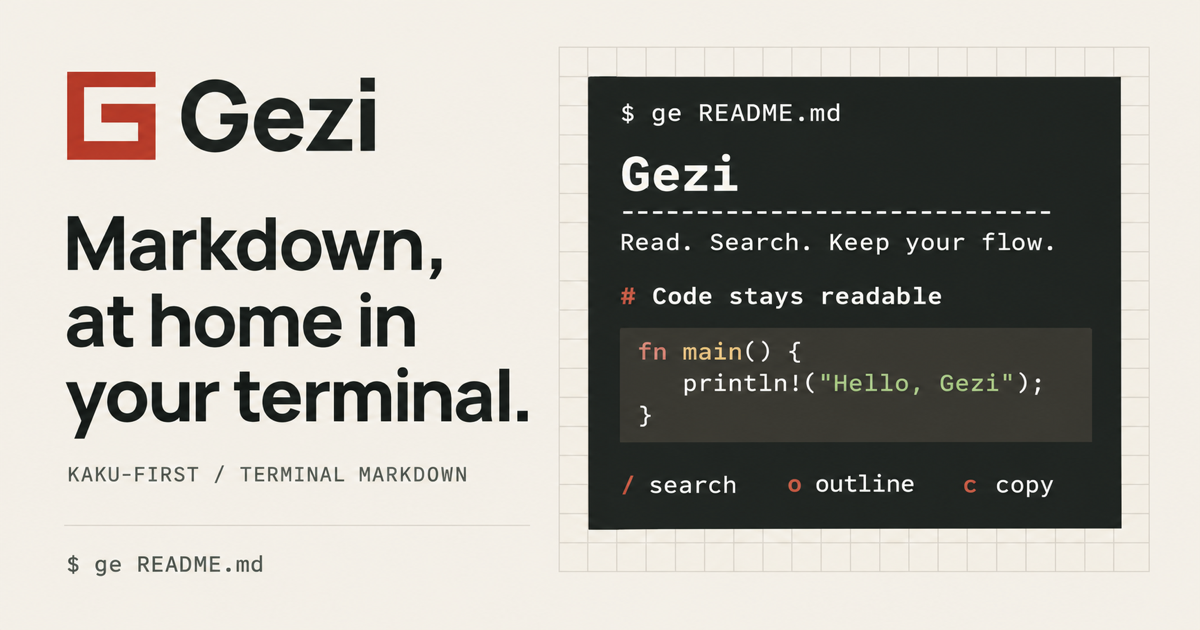
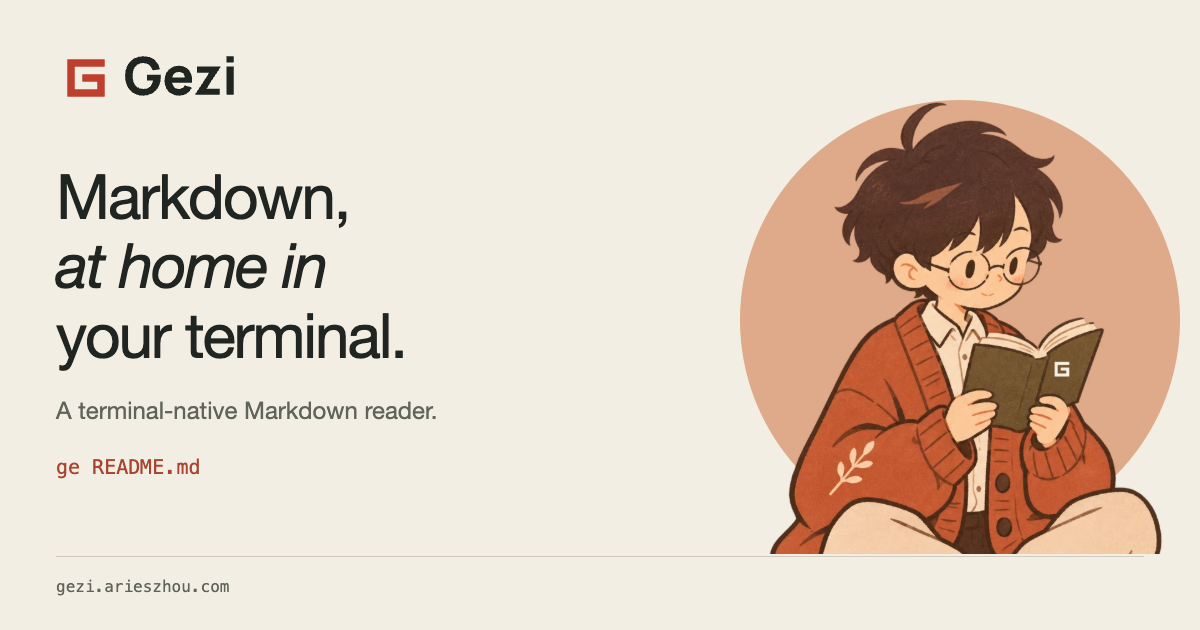
feat: bring reading character to website and brand artwork (#41)

diff --git a/site/index.html b/site/index.html
@@ -1,4 +1,4 @@
-<!doctype html><html lang="en" data-type="software"><head><meta charset="utf-8"><meta name="viewport" content="width=device-width,initial-scale=1"><meta name="page-type" content="software"><meta name="site-kind" content="software"><meta name="theme-color" content="#f5f1e8"><meta name="description" content="Gezi is a terminal-native Markdown reader for macOS Apple Silicon. Read files, search text, navigate headings and read Markdown streams."><title>Gezi — Markdown, at home in your terminal.</title><link rel="icon" href="/assets/favicon.svg"><link rel="stylesheet" href="/styles.css"><link rel="stylesheet" href="/reference.css"><script src="/page.js" defer></script><link rel="canonical" href="https://gezi.arieszhou.com/"><meta property="og:type" content="website"><meta property="og:site_name" content="Gezi"><meta property="og:title" content="Gezi — Markdown, at home in your terminal."><meta property="og:description" content="A terminal-native Markdown reader for macOS Apple Silicon. Open files, search text, navigate headings and read from a pipe."><meta property="og:url" content="https://gezi.arieszhou.com/"><meta property="og:image" content="https://gezi.arieszhou.com/og-image.png"><meta property="og:image:width" content="1200"><meta property="og:image:height" content="630"><meta property="og:image:alt" content="Gezi logo, brand slogan and an illustrative terminal reading scene."><meta name="twitter:card" content="summary_large_image"><meta name="twitter:title" content="Gezi — Markdown, at home in your terminal."><meta name="twitter:description" content="A terminal-native Markdown reader for macOS Apple Silicon."><meta name="twitter:image" content="https://gezi.arieszhou.com/og-image.png"></head><body class="design-a"><div class="page"><a class="skip" href="#main">Skip to content</a><header class="site-header"><a class="logo" href="#top" aria-label="Gezi home"><img src="/assets/logo.svg" width="152" height="48" alt="Gezi"></a><span class="header-note">A reading instrument / 格子</span><nav aria-label="Primary"><a href="https://github.com/HiAriesZhou/Gezi">GitHub <span aria-hidden="true">↗</span></a></nav></header><main id="main" tabindex="-1"><div id="top"></div><section class="hero" aria-labelledby="hero-title"><aside class="marginalia"><span class="folio">No. 01</span><p>A little room<br>to read.</p><span class="margin-bottom">Fig. 01</span></aside><div class="hero-main"><div class="a-heading"><p class="eyebrow">A Markdown reader for your terminal</p><h1 id="hero-title">Markdown,<br><em>at home in</em><br>your terminal.</h1><div class="a-intro"><p>Read files, search text, navigate headings, and follow Markdown streams without leaving your terminal.</p><div class="a-actions"><a class="button" href="#install">Install Gezi <span aria-hidden="true">↓</span></a><span>macOS · Apple Silicon</span></div></div></div><div class="reading-surface"><div class="terminal-frame"><div class="terminal-top"><span>ge reading.md</span><a href="/reading.md">Markdown source <span aria-hidden="true">↗</span></a></div><div class="terminal-output" tabindex="0" role="region" aria-label="Actual Gezi rendered Markdown, scroll to read"><pre class="wide"><span style=""></span><span style="font-weight:700;color:var(--ansi-13)">Reading with Gezi</span><span style="">
+<!doctype html><html lang="en" data-type="software"><head><meta charset="utf-8"><meta name="viewport" content="width=device-width,initial-scale=1"><meta name="page-type" content="software"><meta name="site-kind" content="software"><meta name="theme-color" content="#f3eee4"><meta name="description" content="Gezi is a terminal-native Markdown reader for macOS Apple Silicon. Read files, search text, navigate headings and read Markdown streams."><title>Gezi — Markdown, at home in your terminal.</title><link rel="icon" href="/assets/favicon.svg"><link rel="stylesheet" href="/styles.css"><link rel="stylesheet" href="/reference.css"><script src="/page.js" defer></script><link rel="canonical" href="https://gezi.arieszhou.com/"><meta property="og:type" content="website"><meta property="og:site_name" content="Gezi"><meta property="og:title" content="Gezi — Markdown, at home in your terminal."><meta property="og:description" content="A terminal-native Markdown reader for macOS Apple Silicon. Open files, search text, navigate headings and read from a pipe."><meta property="og:url" content="https://gezi.arieszhou.com/"><meta property="og:image" content="https://gezi.arieszhou.com/og-image.png"><meta property="og:image:width" content="1200"><meta property="og:image:height" content="630"><meta property="og:image:alt" content="Gezi logo and a reader holding a book. Markdown, at home in your terminal."><meta name="twitter:card" content="summary_large_image"><meta name="twitter:title" content="Gezi — Markdown, at home in your terminal."><meta name="twitter:description" content="A terminal-native Markdown reader for macOS Apple Silicon."><meta name="twitter:image" content="https://gezi.arieszhou.com/og-image.png"></head><body class="design-a"><div class="page"><a class="skip" href="#main">Skip to content</a><header class="site-header"><a class="logo" href="#top" aria-label="Gezi home"><img src="/assets/logo.svg" width="152" height="48" alt="Gezi"></a><span class="header-note">A reading instrument / 格子</span><nav aria-label="Primary"><a href="https://github.com/HiAriesZhou/Gezi">GitHub <span aria-hidden="true">↗</span></a></nav></header><main id="main" tabindex="-1"><div id="top"></div><section class="hero" aria-labelledby="hero-title"><aside class="marginalia"><span class="folio">No. 01</span><p>A little room<br>to read.</p><span class="margin-bottom">Fig. 01</span></aside><div class="hero-main"><div class="a-heading"><div class="reader-art" aria-hidden="true"><img src="/assets/reader.webp" alt="" width="756" height="1003" fetchpriority="high" decoding="async"></div><p class="eyebrow">A Markdown reader for your terminal</p><h1 id="hero-title">Markdown,<br><em>at home in</em><br>your terminal.</h1><div class="a-intro"><p>Read files, search text, navigate headings, and follow Markdown streams without leaving your terminal.</p><div class="a-actions"><a class="button" href="#install">Install Gezi <span aria-hidden="true">↓</span></a><span>macOS · Apple Silicon</span></div></div></div><div class="reading-surface"><div class="terminal-frame"><div class="terminal-top"><span>ge reading.md</span><a href="/reading.md">Markdown source <span aria-hidden="true">↗</span></a></div><div class="terminal-output" tabindex="0" role="region" aria-label="Actual Gezi rendered Markdown, scroll to read"><pre class="wide"><span style=""></span><span style="font-weight:700;color:var(--ansi-13)">Reading with Gezi</span><span style="">
 </span><span style="font-weight:700;color:var(--ansi-13)"><span class="terminal-rule">━━━━━━━━━━━━━━━━━━━━━━━━━━━━━━━━━━━━━━━━━━━━━━━━━━━━━━━━━━━━━━━━</span></span><span style="">
 
 在终端里，读得自在。

diff --git a/site/reference.css b/site/reference.css
@@ -11,7 +11,11 @@ body.design-a {
 .design-a .marginalia { border: 0; padding: 10px 0 0; }
 .design-a .folio, .design-a .margin-bottom { color: var(--rust); font: 14px/1.4 var(--sans); }
 .design-a .marginalia p { font: 14px/1.4 var(--sans); margin-top: 12px; }
-.design-a .a-heading { display: block; margin-bottom: 22px; }
+.design-a .a-heading { display: grid; grid-template-columns: minmax(0, 1fr) 280px; gap: 0 32px; margin-bottom: 22px; }
+.design-a .a-heading > .eyebrow, .design-a .a-heading > h1, .design-a .a-intro { grid-column: 1; }
+.design-a .reader-art { grid-column: 2; grid-row: 1 / 4; position: relative; align-self: center; width: 100%; max-width: 240px; justify-self: center; }
+.design-a .reader-art::before { content: ""; position: absolute; inset: 16% 0 15%; background: #dfaa89; border-radius: 50%; }
+.design-a .reader-art img { display: block; position: relative; width: 100%; height: auto; }
 .design-a .eyebrow { font: 13px/1.5 var(--sans); text-transform: uppercase; letter-spacing: .035em; }
 .design-a h1 { font: 400 42px/1.28 var(--sans); letter-spacing: -.025em; margin-top: 20px; }
 .design-a h1 em { font-weight: 400; color: inherit; }
@@ -38,6 +42,9 @@ body.design-a {
 .design-a .command-row p { max-width: 32ch; }
 .design-a .section-label h2 { font-family: var(--sans); }
 @media(max-width: 1050px) {
+  .design-a .a-heading { grid-template-columns: minmax(0, 1fr) 220px; column-gap: 24px; }
+  .design-a .a-intro { grid-column: 1 / -1; }
+  .design-a .reader-art { grid-row: 1 / 3; max-width: 145px; }
   .design-a .hero { grid-template-columns: 88px minmax(0,1fr); gap: 20px; }
   .design-a h1 { font-size: 38px; }
   .design-a .terminal-output pre { font-size: 12px; }
@@ -50,6 +57,9 @@ body.design-a {
   .design-a .command-row code { font-size: 11px; overflow-wrap: anywhere; }
 }
 @media(max-width: 620px) {
+  .design-a .a-heading { grid-template-columns: minmax(0, 1fr) 100px; column-gap: 8px; }
+  .design-a .a-heading > .eyebrow { grid-column: 1 / -1; }
+  .design-a .reader-art { grid-row: 2; max-width: 100px; align-self: end; }
   .design-a .page { padding-inline: 28px; }
   .design-a .site-header { min-height: 78px; }
   .design-a .hero { display: block; padding-block: 24px; }
@@ -68,6 +78,8 @@ body.design-a {
   .design-a .command-row { border-bottom: 1px solid var(--line); padding-bottom: 20px; }
 }
 @media(max-width: 370px) {
+  .design-a .a-heading { grid-template-columns: minmax(0, 1fr); }
+  .design-a .reader-art { display: none; }
   .design-a .page { padding-inline: 24px; }
   .design-a .terminal-output { padding-inline: 12px; }
   .design-a .terminal-output pre { font-size: 10.5px; }

diff --git a/assets/brand/README.md b/assets/brand/README.md
@@ -22,12 +22,15 @@ release as already providing editing, undo/redo or saving.
 
 ## Files
 
-All SVG files are self-contained vectors. Their lettering is outlined, so they
+The original SVG files are self-contained vectors. Their lettering is outlined, so they
 need no installed fonts, network requests or external images. PNG exports use
 sRGB. Use PNG for social previews; many crawlers do not accept SVG.
 
 | Asset | Dimensions | Use |
 | --- | --- | --- |
+| [reader.webp](reader.webp) | 756 × 1003 | Transparent reading character; keep the official logo as the primary identity |
+| [readme-light.png](readme-light.png), [readme-dark.png](readme-dark.png) | 1200 × 320 | Compact README banners for light and dark backgrounds |
+| [Website sharing image](../../site/og-image.png) | 1200 × 630 | Current website social preview with reading character |
 | [logo.svg](logo.svg), [logo.png](logo.png) | SVG 304 × 96; PNG 608 × 192 | Transparent primary logo, for light surfaces |
 | [logo-on-dark.svg](logo-on-dark.svg), [logo-on-dark.png](logo-on-dark.png) | SVG 304 × 96; PNG 608 × 192 | Paper-white logo, for dark surfaces |
 | [logo-mono.svg](logo-mono.svg), [logo-mono.png](logo-mono.png) | SVG 304 × 96; PNG 608 × 192 | Single-color ink logo |
@@ -53,6 +56,14 @@ Suggested alternative text: "Gezi (格子). Markdown, at home in your terminal.
 A Kaku-first terminal Markdown project."
 
 ## Color and type
+
+The reading character adds warmth to the website and README. It is decorative,
+not an application screenshot or the maker's avatar. The transparent master is
+also copied to `site/assets/reader.webp`; keep both files identical. Its book
+uses the official paper-white mark. Keep the backdrop separate from the character
+so the surrounding page has no rectangular seams. The website and new raster
+banners use paper `#F3EEE4`, ink `#202522`, and restrained rust accents.
+The older vector sharing cards remain available as alternatives.
 
 | Token | Value | Role |
 | --- | --- | --- |

diff --git a/README.md b/README.md
@@ -1,17 +1,18 @@
 <picture>
-  <source media="(prefers-color-scheme: dark)" srcset="assets/brand/og-image.svg">
-  <img src="assets/brand/og-image-light.svg" alt="Gezi (格子). Markdown, at home in your terminal." width="1200">
+  <source media="(prefers-color-scheme: dark)" srcset="assets/brand/readme-dark.png">
+  <img src="assets/brand/readme-light.png" alt="Gezi (格子). Markdown, at home in your terminal." width="1200">
 </picture>
 
 **Markdown, at home in your terminal.**
 
-A Kaku-first Markdown editor for the terminal, built for developer and AI workflows.
+A lightweight, terminal-native Markdown reader for macOS Apple Silicon, designed
+for Kaku and developer workflows.
 
 Gezi (格子, “grid” in Chinese) takes its name from manuscript paper and the
-terminal’s character grid. Use `gezi` or the shorter `ge`; both run the same editor.
+terminal’s character grid. Use `gezi` or the shorter `ge`; both run the same reader.
 
-**In development:** current releases deliver the reading and rendering foundation.
-Editing, undo/redo and saving files are next. macOS Apple Silicon is supported.
+Read files, search text, navigate headings, and read Markdown from a pipe.
+Editing, undo/redo and saving files are planned, not yet available.
 
 ## Install
 
